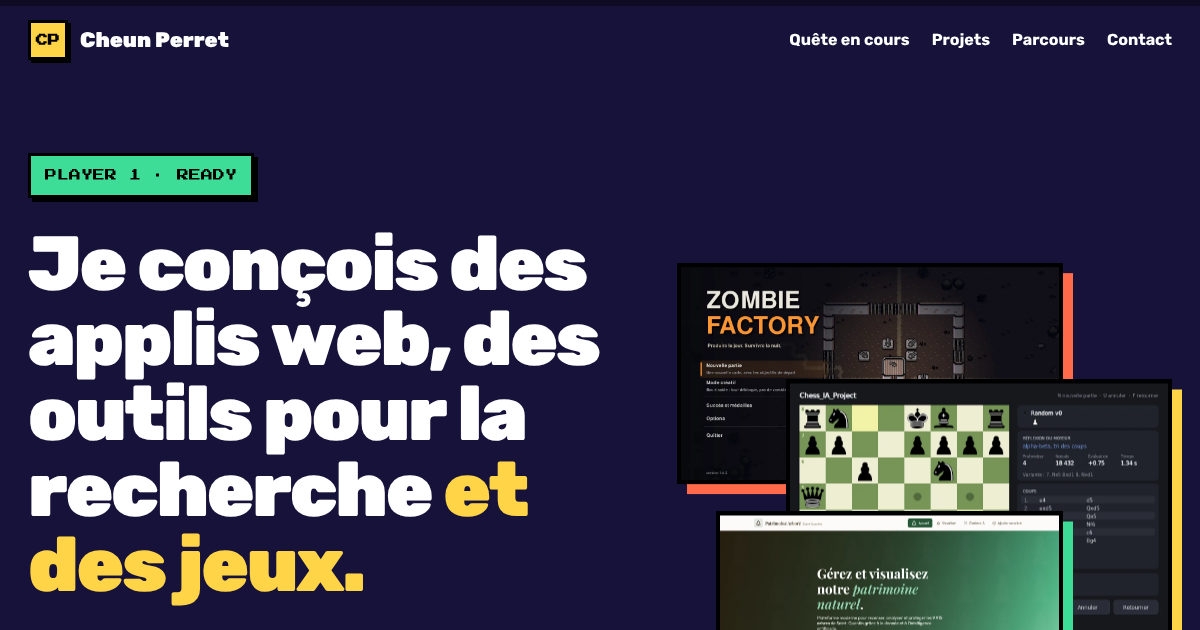
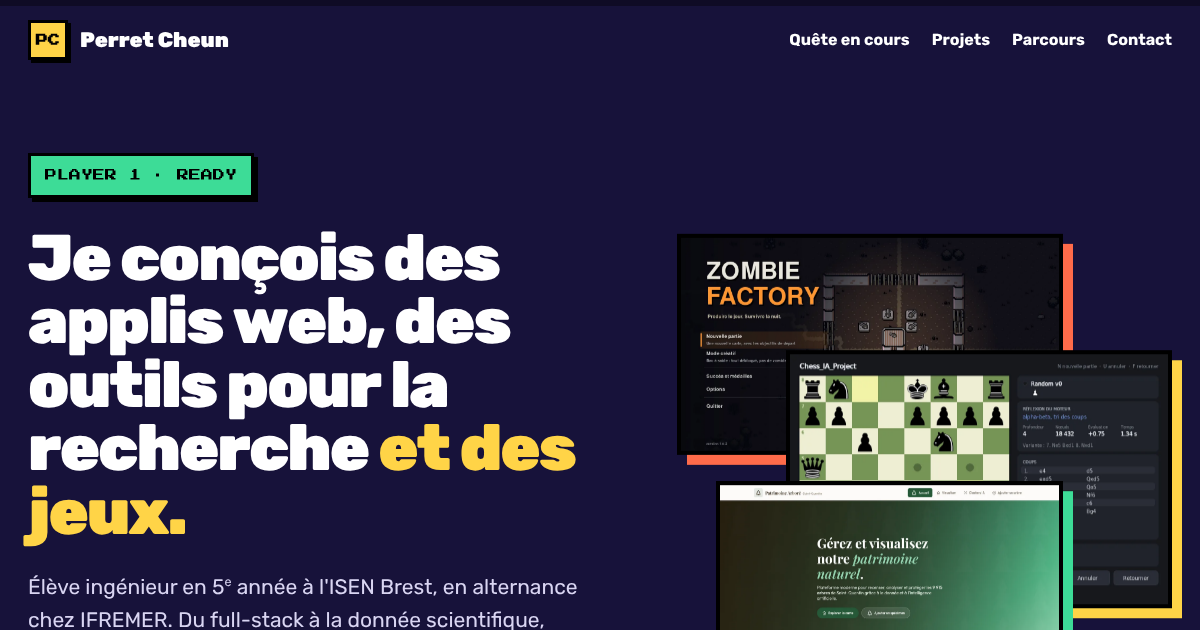
Correction Nom

diff --git a/index.html b/index.html
@@ -33,7 +33,7 @@
 <!-- Écran d'accueil « PRESS START » (une fois par visite, passable) -->
 <div class="intro" id="intro" aria-hidden="true">
   <div class="intro__inner">
-    <p class="intro__title">CHEUN<br><span>PERRET</span></p>
+    <p class="intro__title">PERRET<br><span>CHEUN</span></p>
     <p class="intro__press">PRESS START</p>
     <p class="intro__hint">Appuie sur une touche ou clique</p>
   </div>
